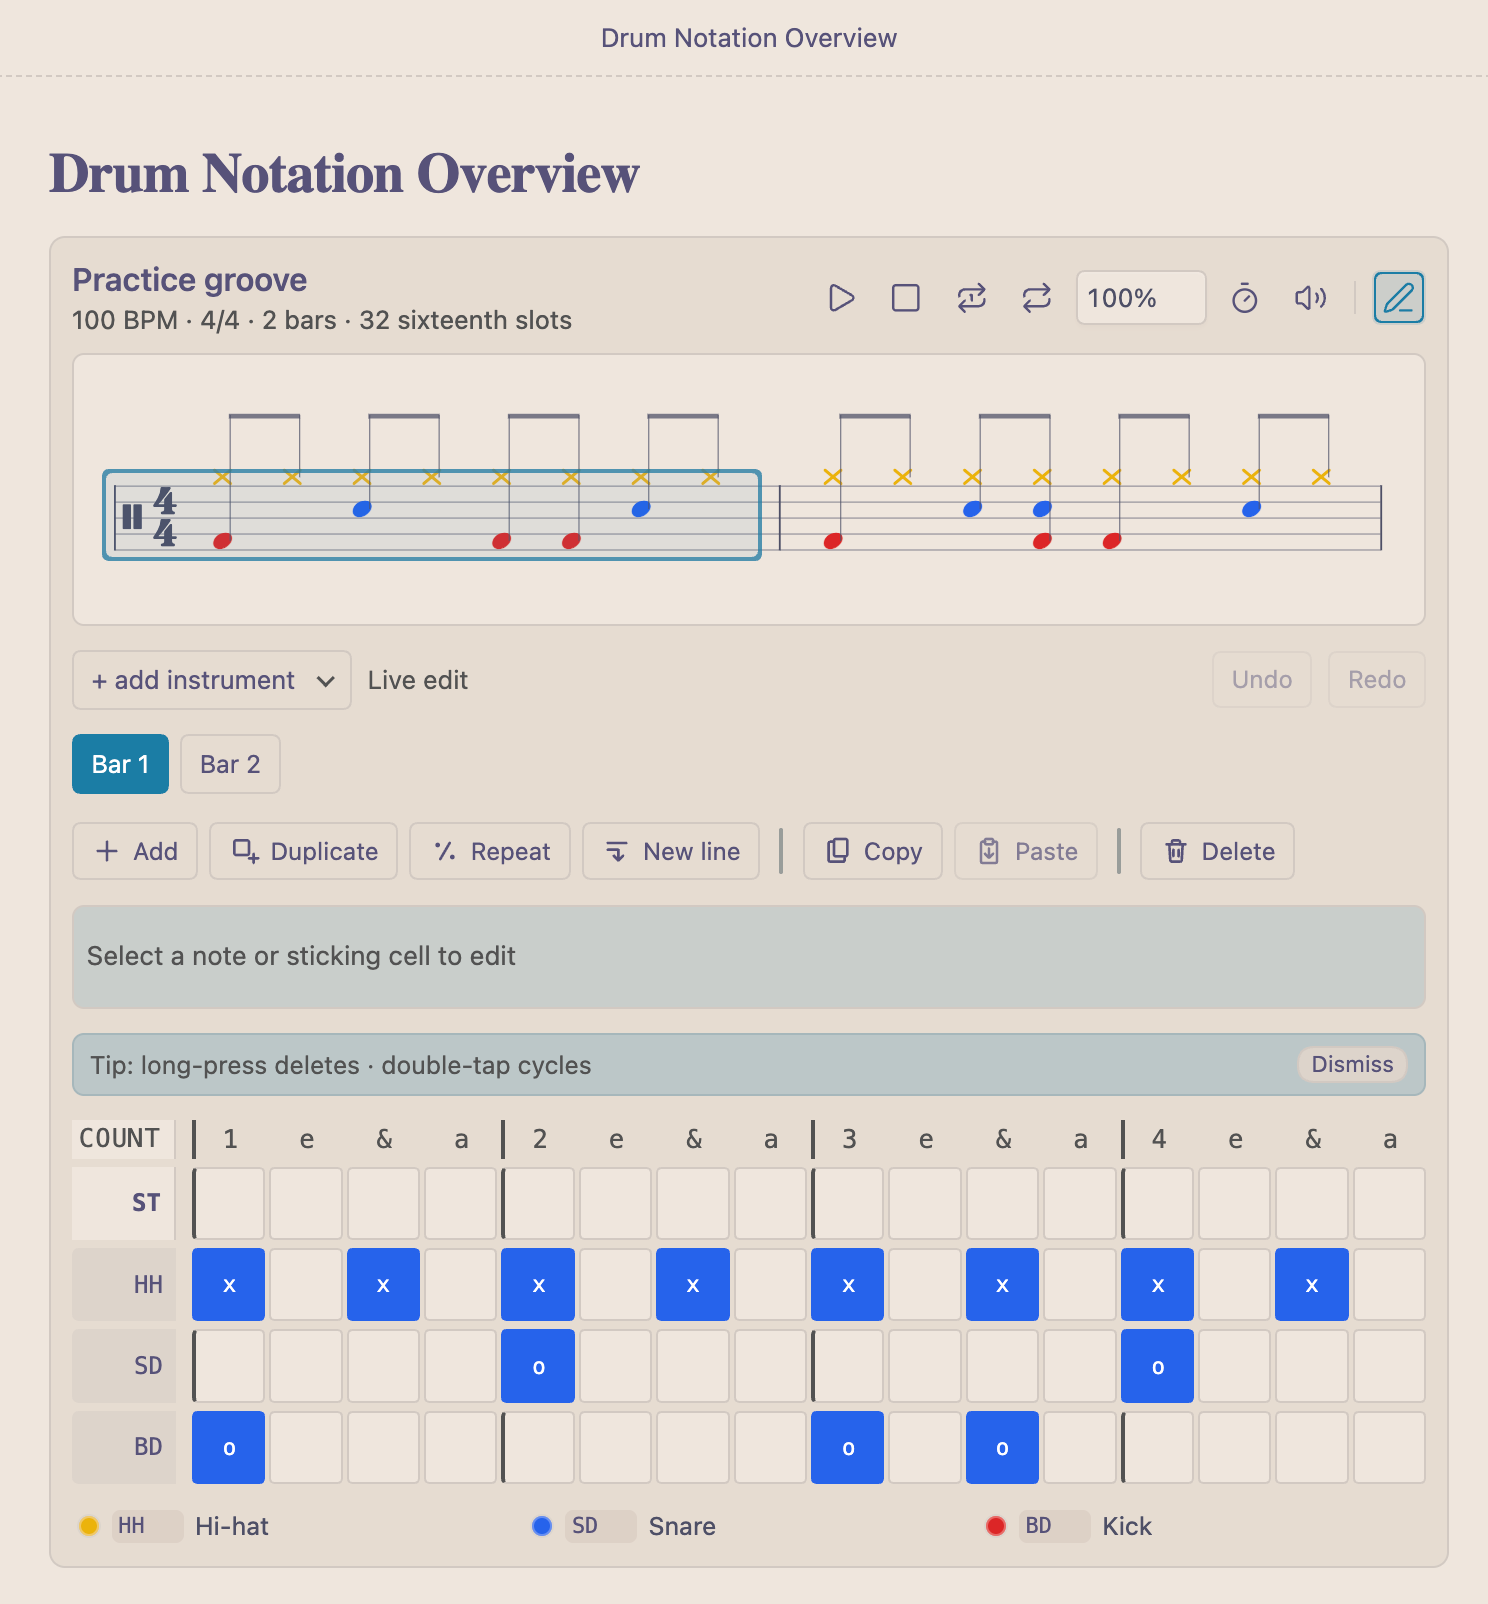
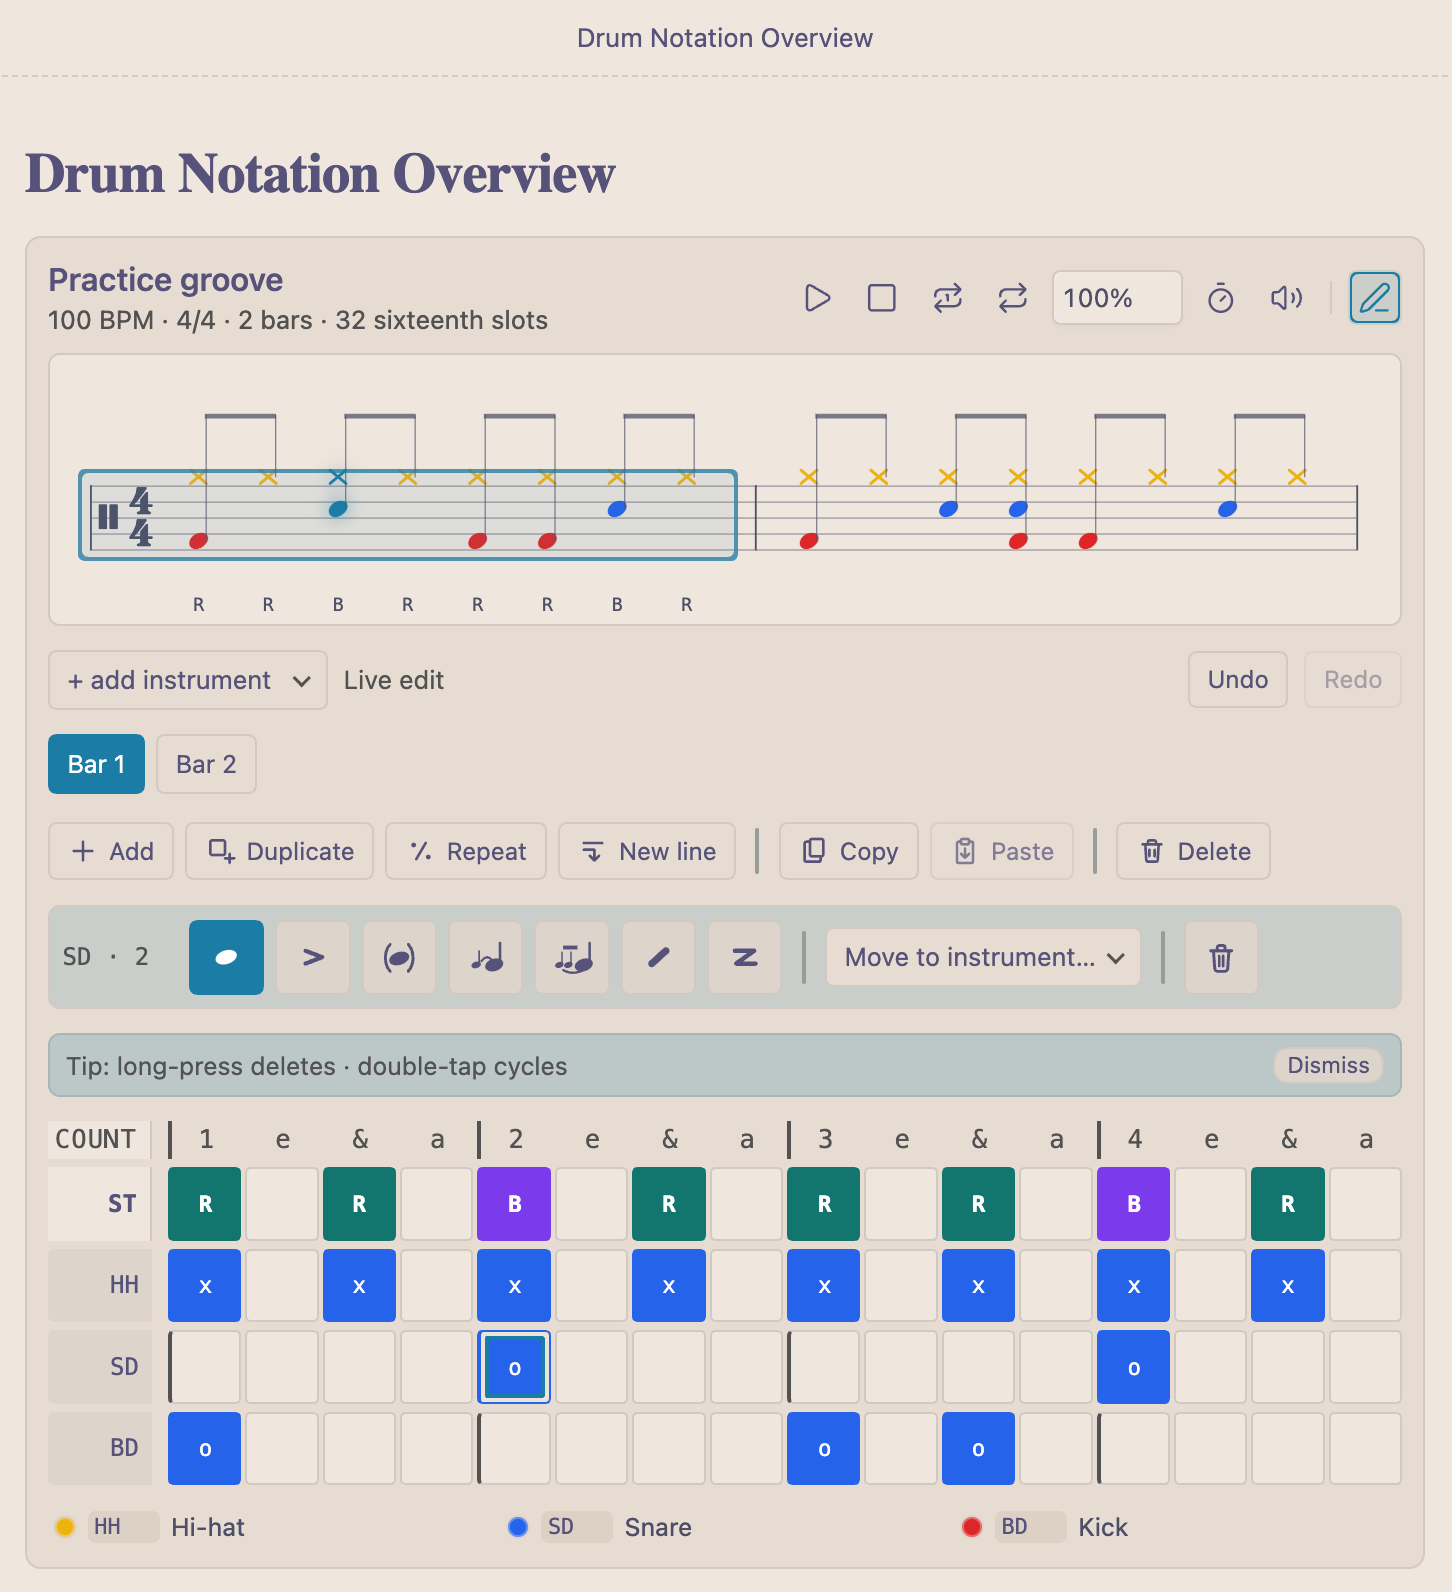
Release 1.7.3 with richer plugin overview

diff --git a/README.md b/README.md
@@ -771,15 +771,13 @@ Use **Loop Bar** in the rendered view to loop the bar containing the current cur
 
 ## Recent Changes
 
+- `1.7.3` updates the plugin overview screenshot to demonstrate the selected-note
+  toolbar and sticking lane alongside visual grid editing.
 - `1.7.2` sharpens the practitioner-focused plugin overview with a
   higher-resolution visual-editor screenshot.
 - `1.7.1` introduces a practitioner-first plugin overview with clearer
   workflows for practice, lessons, song charts, gigs, visual authoring, and
   printed-score import.
-- `1.7.0` adds searchable, grouped Obsidian settings for new-notation
-  authoring defaults. The defaults seed serialized text when inserting a block
-  or creating its first bar; existing playable notation remains portable and
-  vault-independent.
 
 See [all GitHub releases](https://github.com/vkamolov/obsidian-drum-notation/releases)
 for the complete history.
